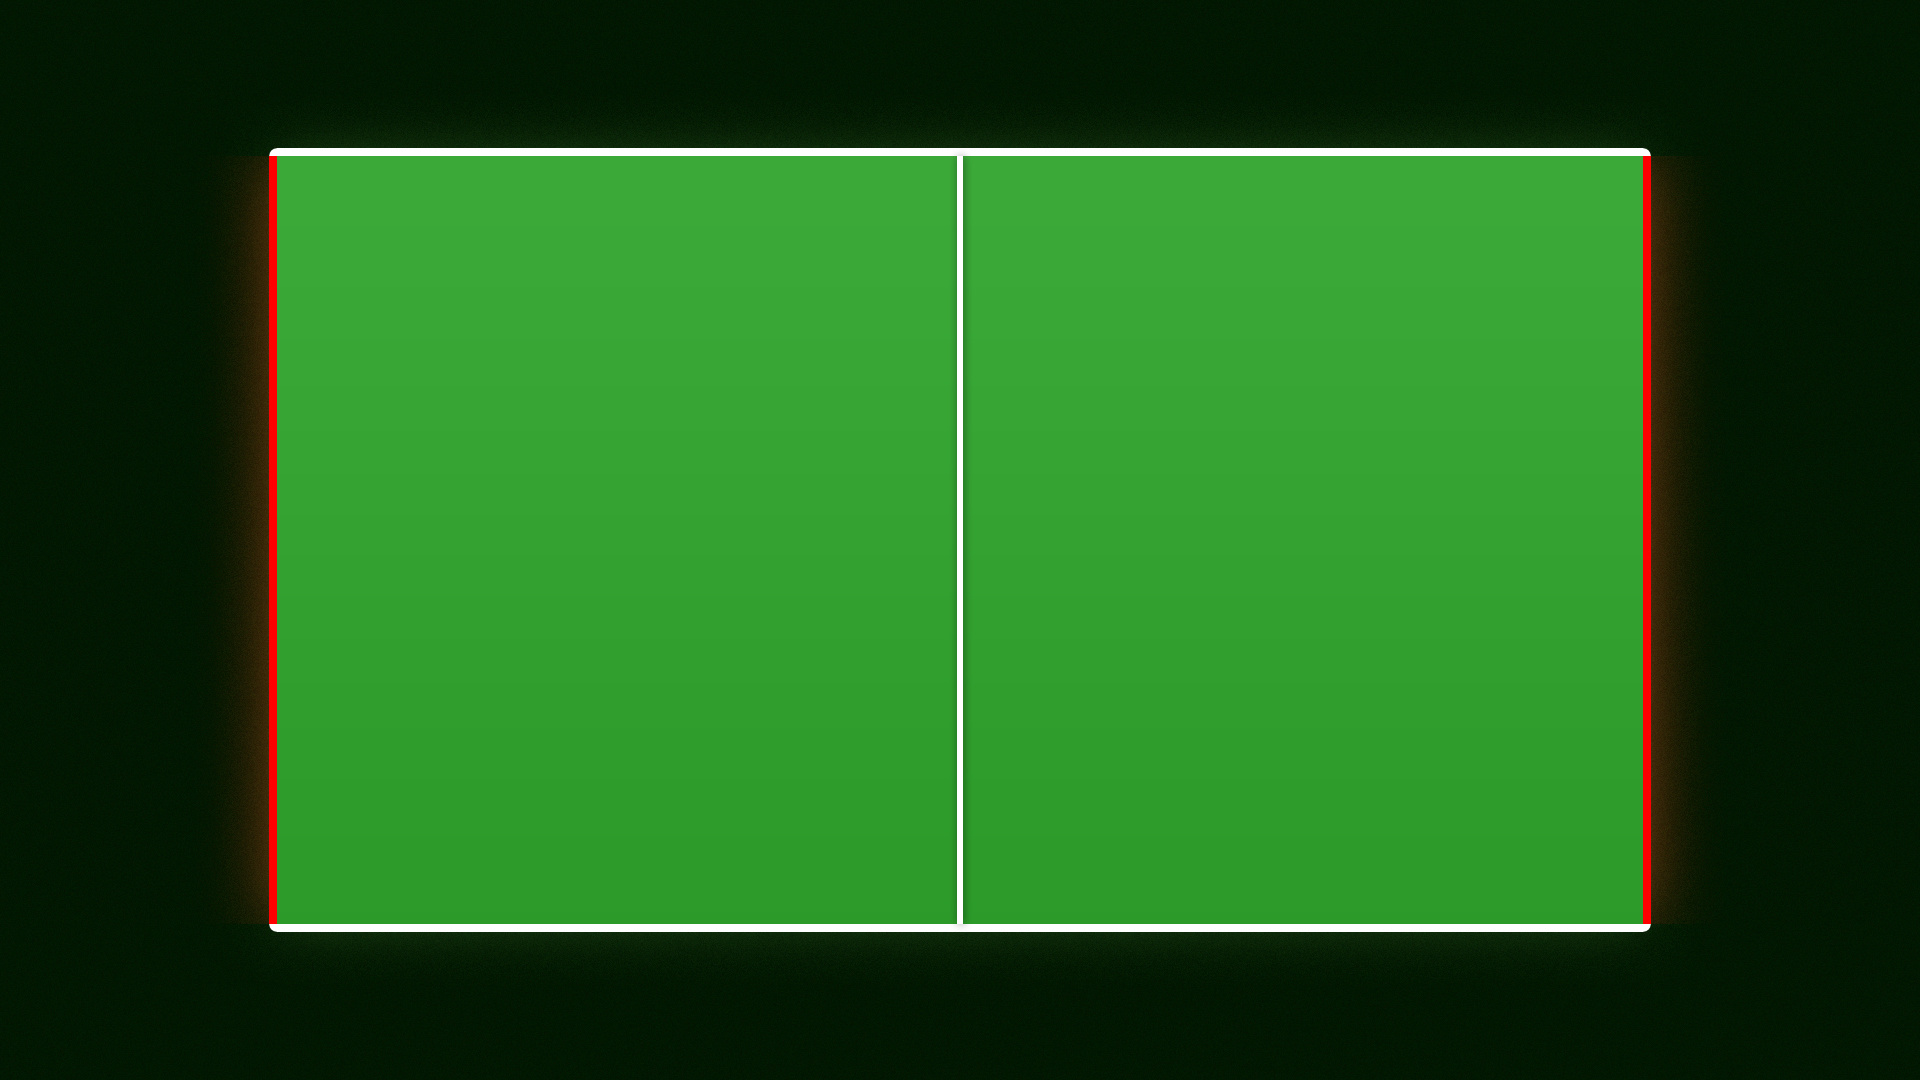
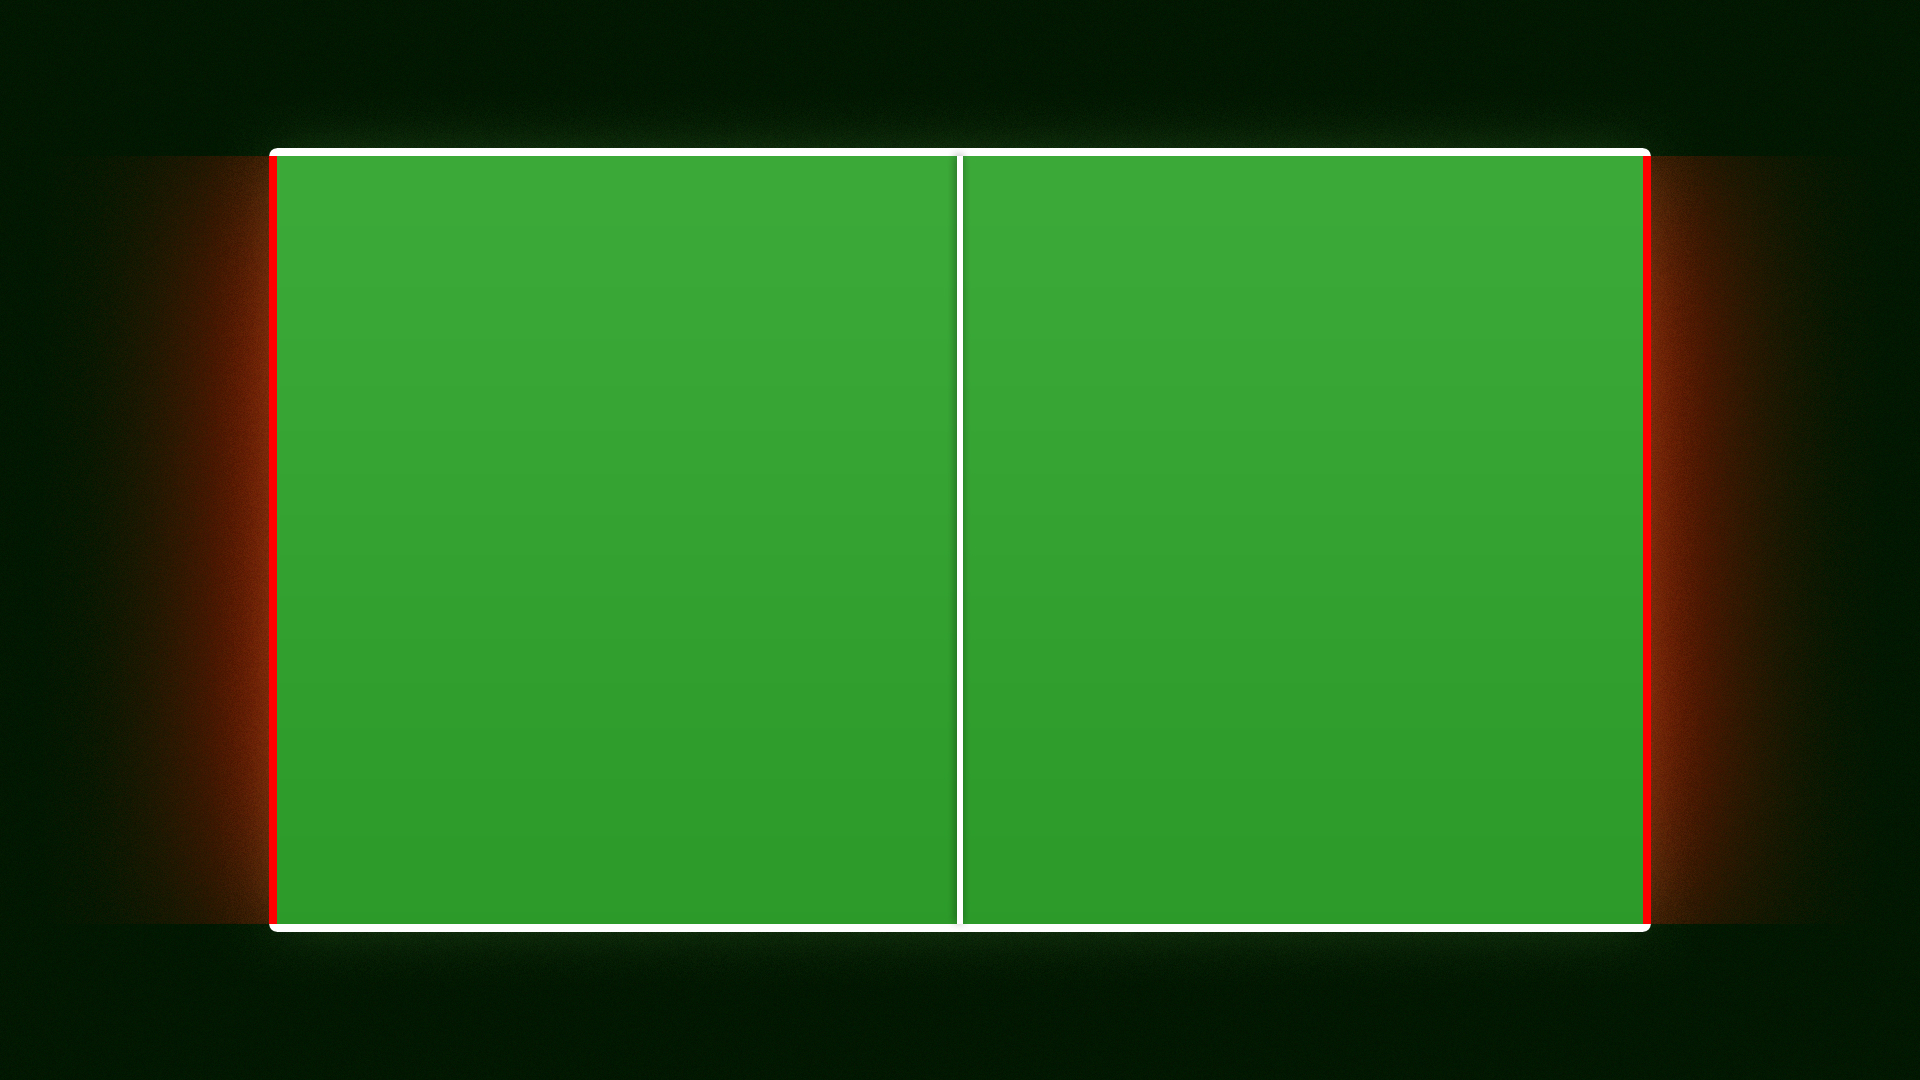
true fullscreen design

Changed region(s): [[0.8438, 0.1222, 0.9375, 0.8556], [0.0625, 0.1222, 0.1562, 0.8556]]

diff --git a/Pong/Taskbar.cs b/Pong/Taskbar.cs
@@ -1,0 +1,55 @@
+using System;
+using System.Runtime.InteropServices;
+
+public class Taskbar
+{
+    [DllImport("user32.dll")]
+    private static extern int FindWindow(string className, string windowText);
+
+    [DllImport("user32.dll")]
+    private static extern int ShowWindow(int hwnd, int command);
+
+    [DllImport("user32.dll")]
+    public static extern int FindWindowEx(int parentHandle, int childAfter, string className, int windowTitle);
+
+    [DllImport("user32.dll")]
+    private static extern int GetDesktopWindow();
+
+    private const int SW_HIDE = 0;
+    private const int SW_SHOW = 1;
+
+    protected static int Handle
+    {
+        get
+        {
+            return FindWindow("Shell_TrayWnd", "");
+        }
+    }
+
+    protected static int HandleOfStartButton
+    {
+        get
+        {
+            int handleOfDesktop = GetDesktopWindow();
+            int handleOfStartButton = FindWindowEx(handleOfDesktop, 0, "button", 0);
+            return handleOfStartButton;
+        }
+    }
+
+    private Taskbar()
+    {
+        // hide ctor
+    }
+
+    public static void Show()
+    {
+        ShowWindow(Handle, SW_SHOW);
+        ShowWindow(HandleOfStartButton, SW_SHOW);
+    }
+
+    public static void Hide()
+    {
+        ShowWindow(Handle, SW_HIDE);
+        ShowWindow(HandleOfStartButton, SW_HIDE);
+    }
+}

diff --git a/Pong/Ball.cs b/Pong/Ball.cs
@@ -24,9 +24,11 @@ namespace Pong
         private int featureNr;
         private Clock featureTime;
         private float standardSize;
+        CircleShape copy;
         public Ball(Vector2f windowSize, Vector2f deltaXY, Vector2f position, float radius)
         {
-            
+            copy = new CircleShape();
+            copy.FillColor = new Color(0, 0, 0, 128);
             Circle = new CircleShape(radius);
             BoundingBox = new RectangleShape();
             BoundingBox.Size = new Vector2f(radius*2,radius*2);
@@ -277,8 +279,17 @@ namespace Pong
 
         public void Draw(RenderTarget target, RenderStates states)
         {
-            ((Drawable)circle).Draw(target, states);
+            
             //((Drawable)boundingBox).Draw(target, states);
+            //Shadow:
+
+           copy.Position = circle.Position + new Vector2f(3,3);
+            
+            copy.Radius = circle.Radius;
+            ((Drawable)copy).Draw(target, states);
+
+
+            ((Drawable)circle).Draw(target, states);
         }
         
 

diff --git a/Pong/Background.cs b/Pong/Background.cs
@@ -24,15 +24,16 @@ namespace Pong
 
         public void changeOpacity()
         {
-            Byte opacity = (Byte)Math.Sin(c.ElapsedTime.AsSeconds());
+            Byte opacity = (Byte)(Math.Abs(Math.Sin(c.ElapsedTime.AsSeconds())*255));
             backGroundGlow.Color = new Color(255, 255, 255, opacity);
         }
 
         public void Draw(RenderTarget target, RenderStates states)
         {
-            ((Drawable)backGroundSprite).Draw(target, states);
             changeOpacity();
+            ((Drawable)backGroundSprite).Draw(target, states);
             ((Drawable)backGroundGlow).Draw(target, states);
+
         }
     }
 }

diff --git a/Pong/Program.cs b/Pong/Program.cs
@@ -21,7 +21,9 @@ namespace Pong
 
         static void Main(string[] args)
         {
+            Taskbar.Hide();
             RenderWindow window = initWindow();
+
             View GameView = window.GetView();
             GameView.Center = new Vector2f(960 - 277,540 - 156);
             window.SetView(GameView);
@@ -84,7 +86,9 @@ namespace Pong
                 // EXIT
                 if (ManageInput.Instance.Escape() || gamestate == 4)
                 {
+                    Taskbar.Show();
                     System.Environment.Exit(1);
+
                 }
 
                 
